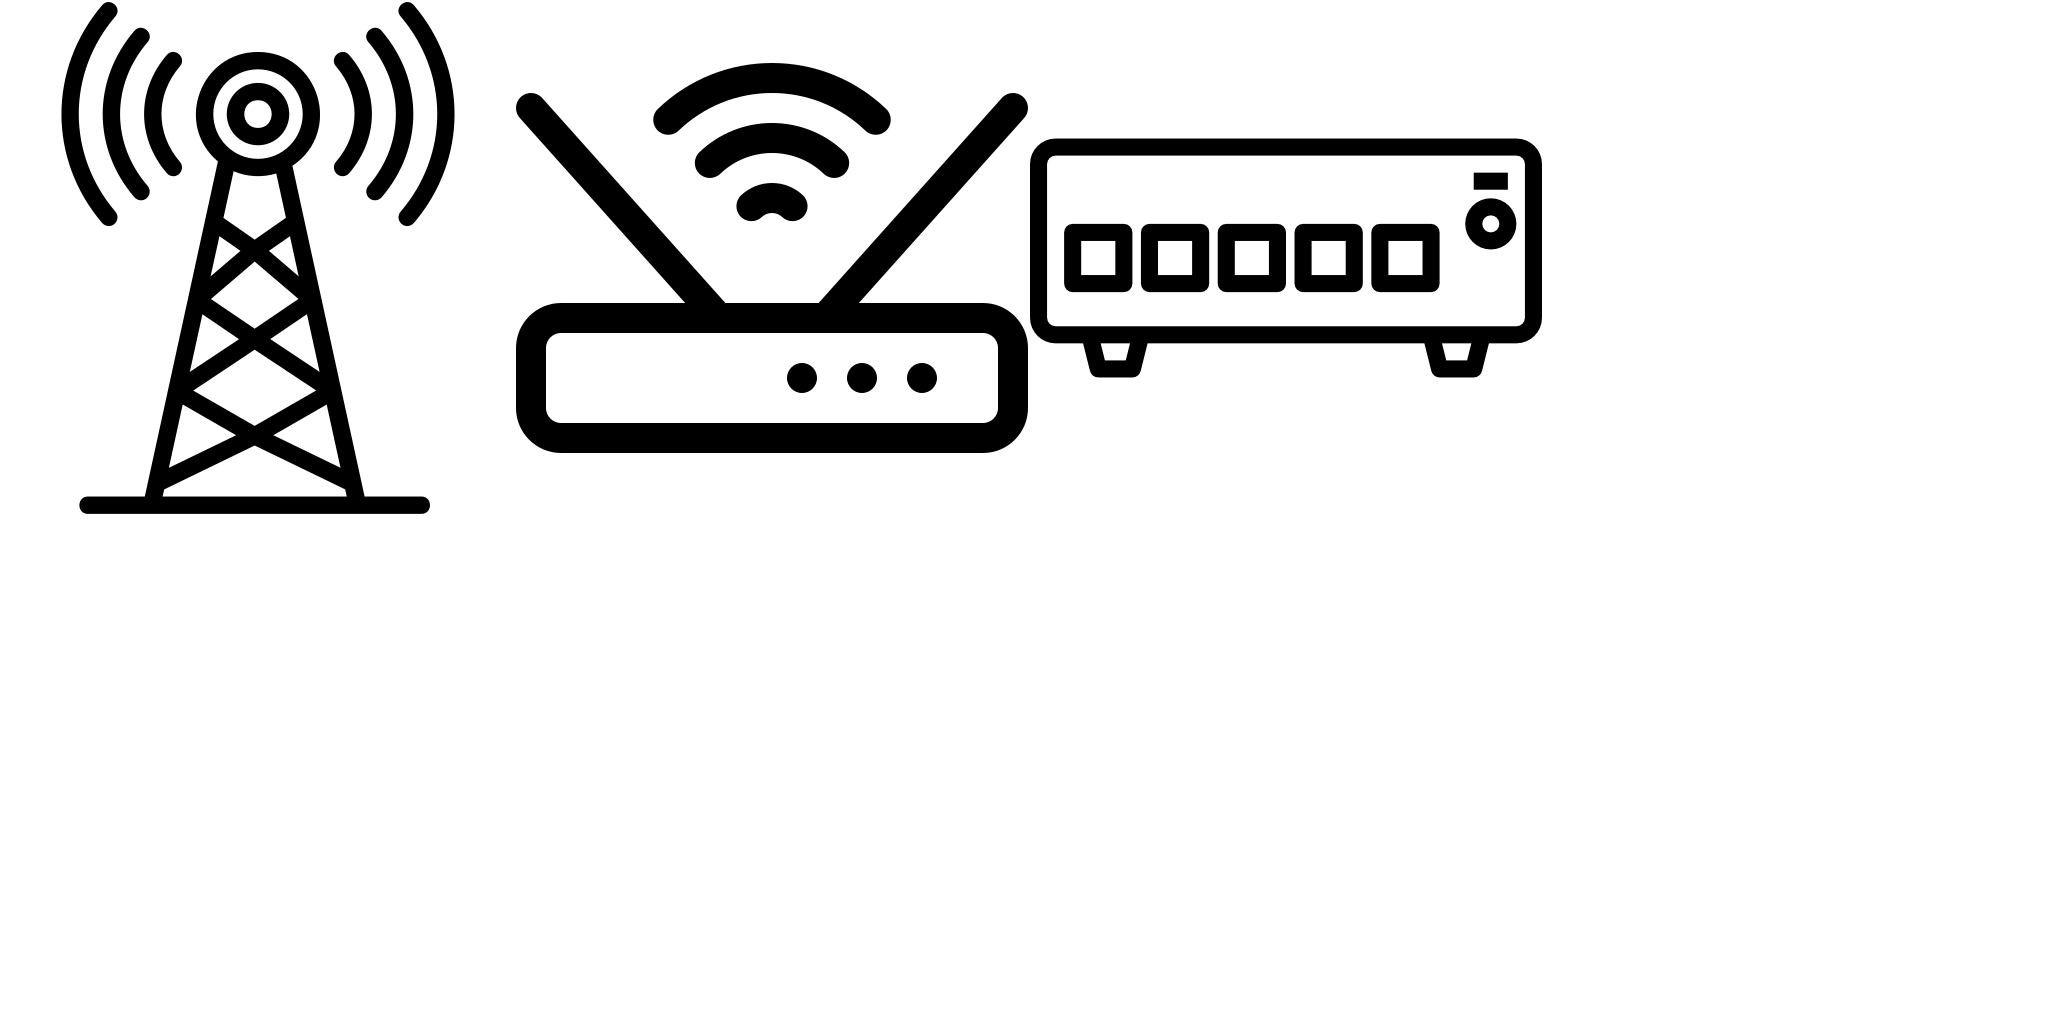
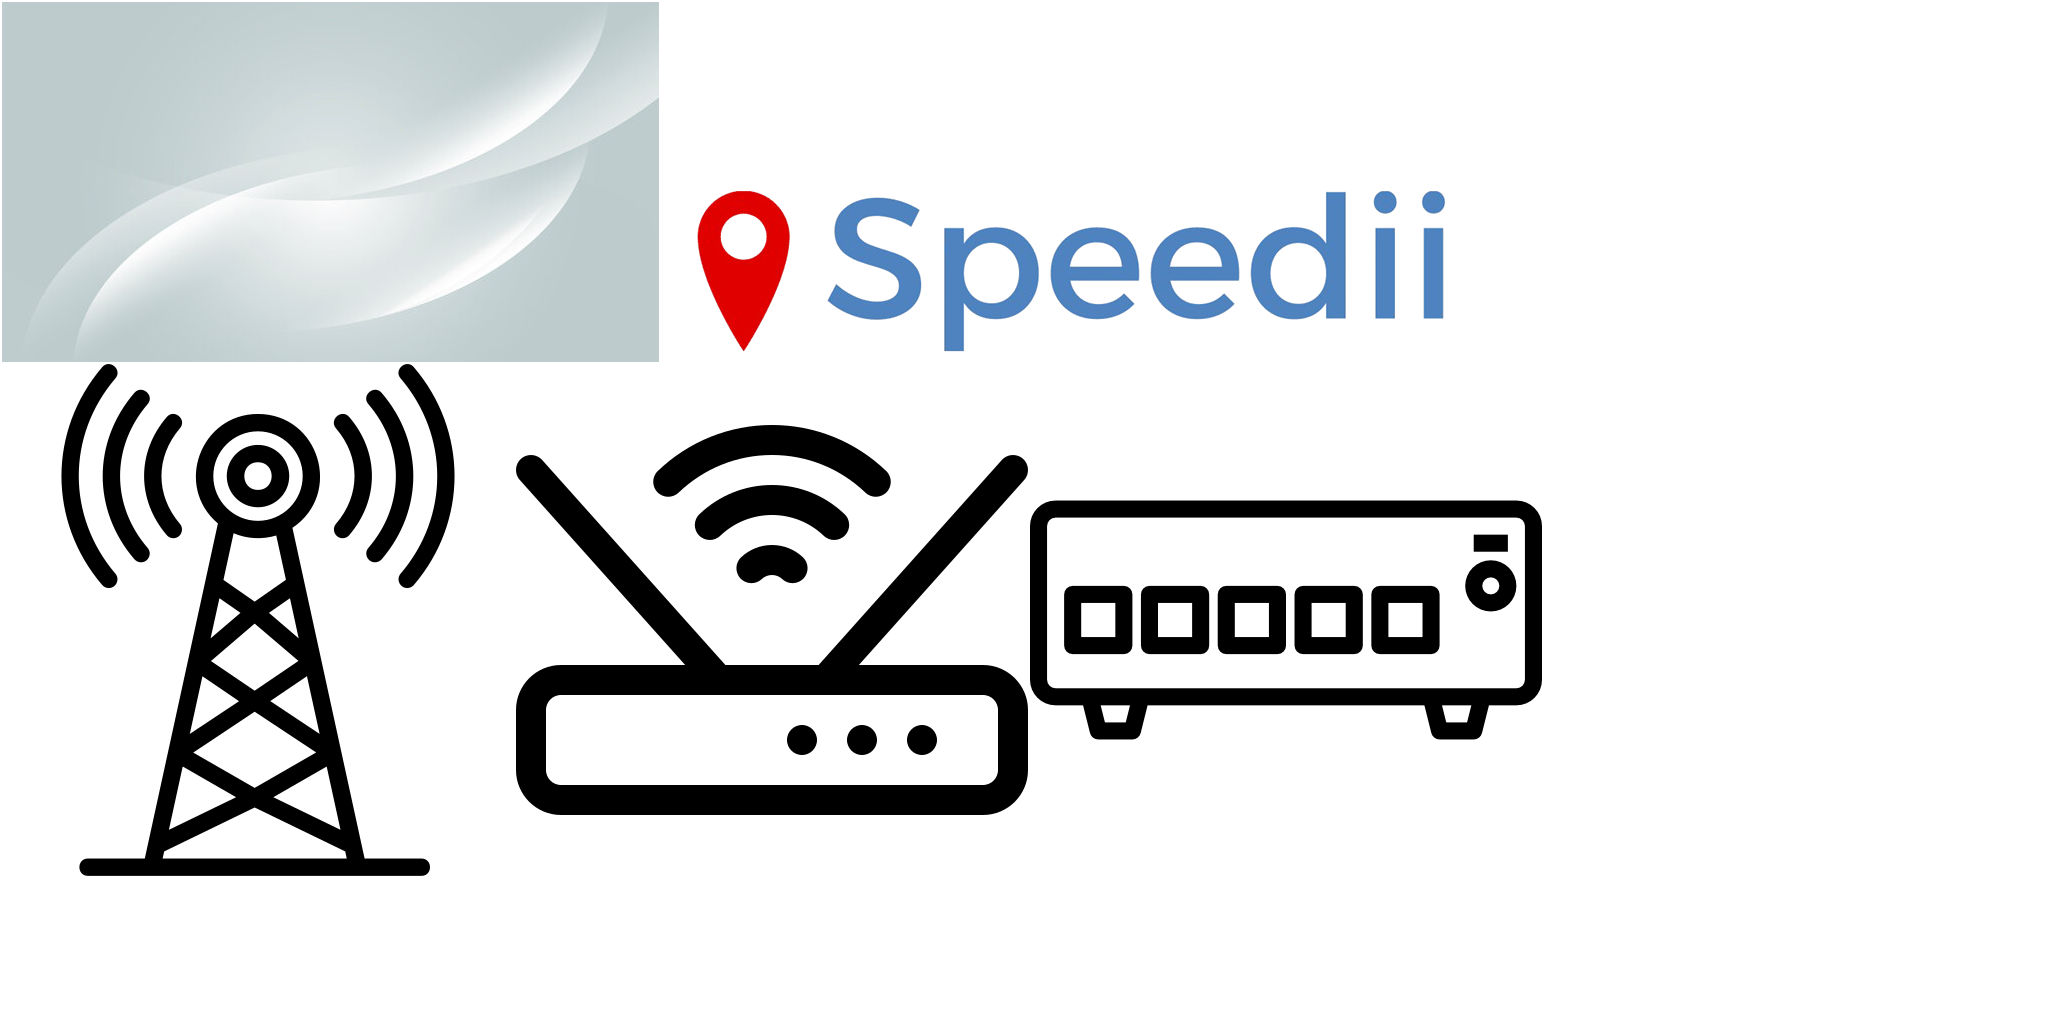
login screen a bit betetr looking (added background, image...)

Changed region(s): [[0.0, 0.0, 0.75, 0.875]]

diff --git a/SpeedTestGameClient/core/src/main/java/si/um/feri/speedii/screens/LoginScreen.java b/SpeedTestGameClient/core/src/main/java/si/um/feri/speedii/screens/LoginScreen.java
@@ -1,57 +1,90 @@
 package si.um.feri.speedii.screens;
 
 import com.badlogic.gdx.Gdx;
+import com.badlogic.gdx.Preferences;
 import com.badlogic.gdx.Screen;
+import com.badlogic.gdx.assets.AssetManager;
 import com.badlogic.gdx.graphics.GL20;
+import com.badlogic.gdx.graphics.Texture;
+import com.badlogic.gdx.graphics.g2d.TextureAtlas;
+import com.badlogic.gdx.graphics.g2d.TextureRegion;
+import com.badlogic.gdx.scenes.scene2d.Actor;
 import com.badlogic.gdx.scenes.scene2d.Stage;
 import com.badlogic.gdx.scenes.scene2d.ui.*;
+import com.badlogic.gdx.scenes.scene2d.utils.TextureRegionDrawable;
 import com.badlogic.gdx.utils.viewport.ScreenViewport;
 
 import org.bson.types.ObjectId;
 
+import java.util.Objects;
+
 import si.um.feri.speedii.SpeediiApp;
-import si.um.feri.speedii.classes.MobileTower;
+import si.um.feri.speedii.assets.AssetDescriptors;
+import si.um.feri.speedii.assets.RegionNames;
 import si.um.feri.speedii.classes.SessionManager;
 import si.um.feri.speedii.classes.User;
-import si.um.feri.speedii.dao.http.HttpMobileTower;
 import si.um.feri.speedii.dao.http.HttpUser;
-import java.util.List;
 
 public class LoginScreen implements Screen {
 
     private final SpeediiApp app;
     private final HttpUser httpUser;
     private final SessionManager sessionManager;
+
+    private AssetManager assetManager;
     private Stage stage;
     private Skin skin;
 
-    public LoginScreen(SpeediiApp app, HttpUser httpUser, SessionManager sessionManager) {
+    private TextureAtlas atlas;
+    private TextureRegion logoRegion;
+    private Image logoImage;
+    private Table table;
+
+    public LoginScreen(SpeediiApp app, HttpUser httpUser, SessionManager sessionManager, AssetManager assetManager) {
         this.app = app;
         this.httpUser = httpUser;
         this.sessionManager = sessionManager;
+        this.assetManager = assetManager;
 
+        // Inicializacija Scene2D
         stage = new Stage(new ScreenViewport());
         skin = new Skin(Gdx.files.internal("uiskin.json"));
 
-        Table table = new Table();
+        // Nalaganje tekstur in logotipa
+        atlas = assetManager.get(AssetDescriptors.IMAGES);
+        logoRegion = atlas.findRegion(RegionNames.LOGO);
+
+        TextureRegionDrawable logoDrawable = new TextureRegionDrawable(logoRegion);
+        logoImage = new Image(logoDrawable);
+        logoImage.setSize(logoImage.getWidth() / 1.2f, logoImage.getHeight() / 1.2f);
+
+        stage.addActor(createBackground());
+        stage.addActor(logoImage);
+
+        // Postavitev tabele za uporabniški vmesnik
+        table = new Table();
         table.setFillParent(true);
         stage.addActor(table);
 
         Label usernameLabel = new Label("Username:", skin);
+        usernameLabel.setColor(0, 0, 0, 1);
         TextField usernameField = new TextField("", skin);
-
+        usernameField.setColor(0.9f, 0.9f, 0.9f, 1);
         Label passwordLabel = new Label("Password:", skin);
+        passwordLabel.setColor(0, 0, 0, 1);
         TextField passwordField = new TextField("", skin);
+        passwordField.setColor(0.9f, 0.9f, 0.9f, 1);
         passwordField.setPasswordMode(true);
         passwordField.setPasswordCharacter('*');
 
         TextButton loginButton = new TextButton("Login", skin);
+        loginButton.pad(5);
 
         table.add(usernameLabel).pad(10);
         table.add(usernameField).width(200).pad(10).row();
         table.add(passwordLabel).pad(10);
         table.add(passwordField).width(200).pad(10).row();
-        table.add(loginButton).colspan(2).center().pad(10);
+        table.add(loginButton).colspan(2).center().pad(20);
 
         loginButton.addListener(event -> {
             if (event.toString().equals("touchDown")) {
@@ -62,22 +95,9 @@ public class LoginScreen implements Screen {
                 if (success) {
                     System.out.println("Login successful!");
                     ObjectId objectId = sessionManager.getUser().getId();
-                    User user =  httpUser.getById(objectId);
+                    User user = httpUser.getById(objectId);
                     System.out.println(user);
                     app.setScreen(new MenuScreen(app, sessionManager));
-                    /*
-                    List<MobileTower> mobileTowers = httpMobileTower.getByLocator(user);
-                    if (mobileTowers.isEmpty()) {
-                        System.out.println("No mobile towers found.");
-                    } else {
-                        System.out.println("Mobile Towers:");
-                        for (MobileTower tower : mobileTowers) {
-                            System.out.println(tower);
-                        }
-                    }
-
-                     */
-
                 } else {
                     System.out.println("Login failed!");
                 }
@@ -88,20 +108,44 @@ public class LoginScreen implements Screen {
         Gdx.input.setInputProcessor(stage);
     }
 
+
+    private Actor createBackground() {
+        Table table = new Table();
+        table.setFillParent(true);
+
+        TextureRegion backgroundRegion = atlas.findRegion(RegionNames.BACKGROUND);
+        table.setBackground(new TextureRegionDrawable(backgroundRegion));
+
+
+
+        table.center();
+        table.setFillParent(true);
+
+        return table;
+    }
+
     @Override
     public void show() {}
 
     @Override
     public void render(float delta) {
-        Gdx.gl.glClearColor(0, 0, 0, 1);
+        Gdx.gl.glClearColor(0.9f, 0.9f, 0.9f, 1);
         Gdx.gl.glClear(GL20.GL_COLOR_BUFFER_BIT);
-        stage.act();
+        stage.act(delta);
         stage.draw();
     }
 
     @Override
     public void resize(int width, int height) {
         stage.getViewport().update(width, height, true);
+
+        float viewportWidth = stage.getViewport().getWorldWidth();
+        float viewportHeight = stage.getViewport().getWorldHeight();
+
+        logoImage.setPosition(
+            viewportWidth / 2 - logoImage.getWidth() / 2,
+            viewportHeight - logoImage.getHeight() - 50
+        );
     }
 
     @Override

diff --git a/SpeedTestGameClient/core/src/main/java/si/um/feri/speedii/SpeediiApp.java b/SpeedTestGameClient/core/src/main/java/si/um/feri/speedii/SpeediiApp.java
@@ -75,7 +75,7 @@ public class SpeediiApp extends Game {
         //setScreen(new GameScreen(this));
         //setScreen(new GameScreen());
         //new MenuScreen(this);
-        setScreen(new LoginScreen(this,httpUser,sessionManager));
+        setScreen(new LoginScreen(this,httpUser,sessionManager, assetManager));
         /*
 
 

diff --git a/SpeedTestGameClient/core/src/main/java/si/um/feri/speedii/assets/RegionNames.java b/SpeedTestGameClient/core/src/main/java/si/um/feri/speedii/assets/RegionNames.java
@@ -5,4 +5,6 @@ public class RegionNames {
         public static final String ROUTER = "router";
         public static final String CELL_TOWER = "celltower";
         public static final String SWITCH = "switch";
+        public static final String LOGO = "logo";
+    public static final String BACKGROUND= "background";
 }
